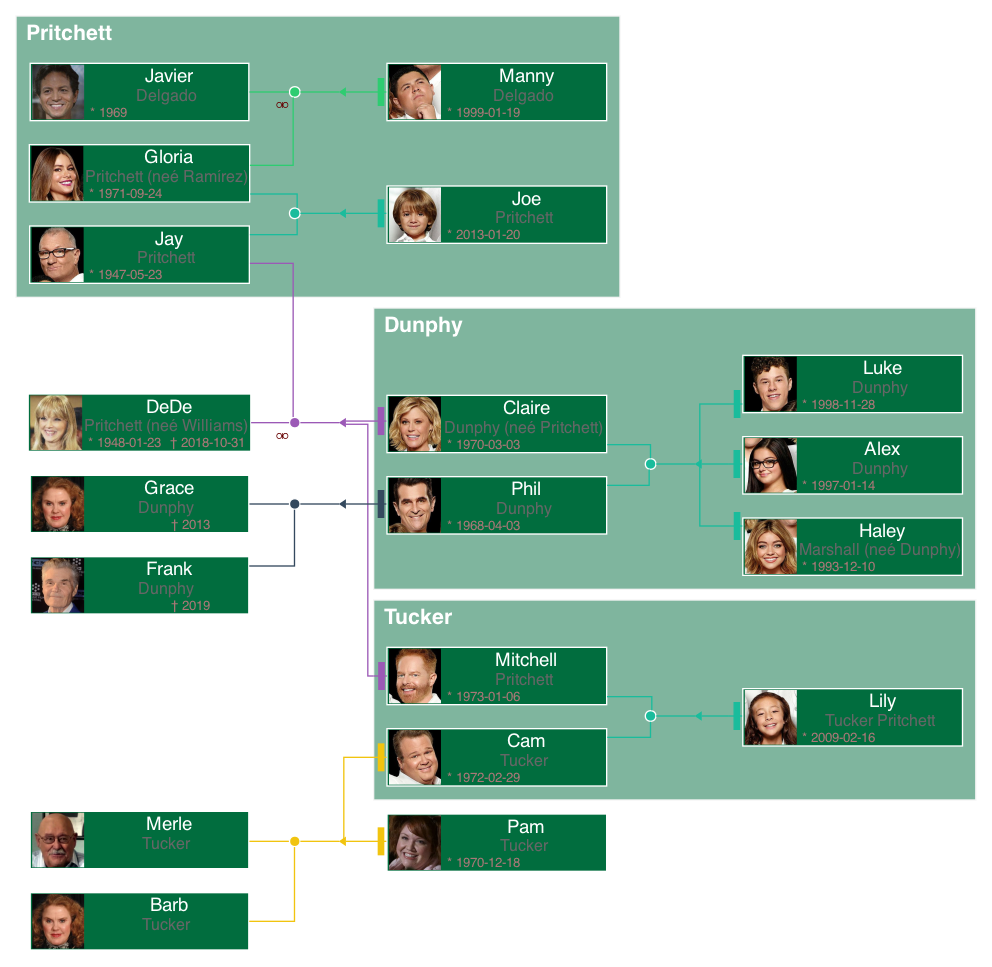
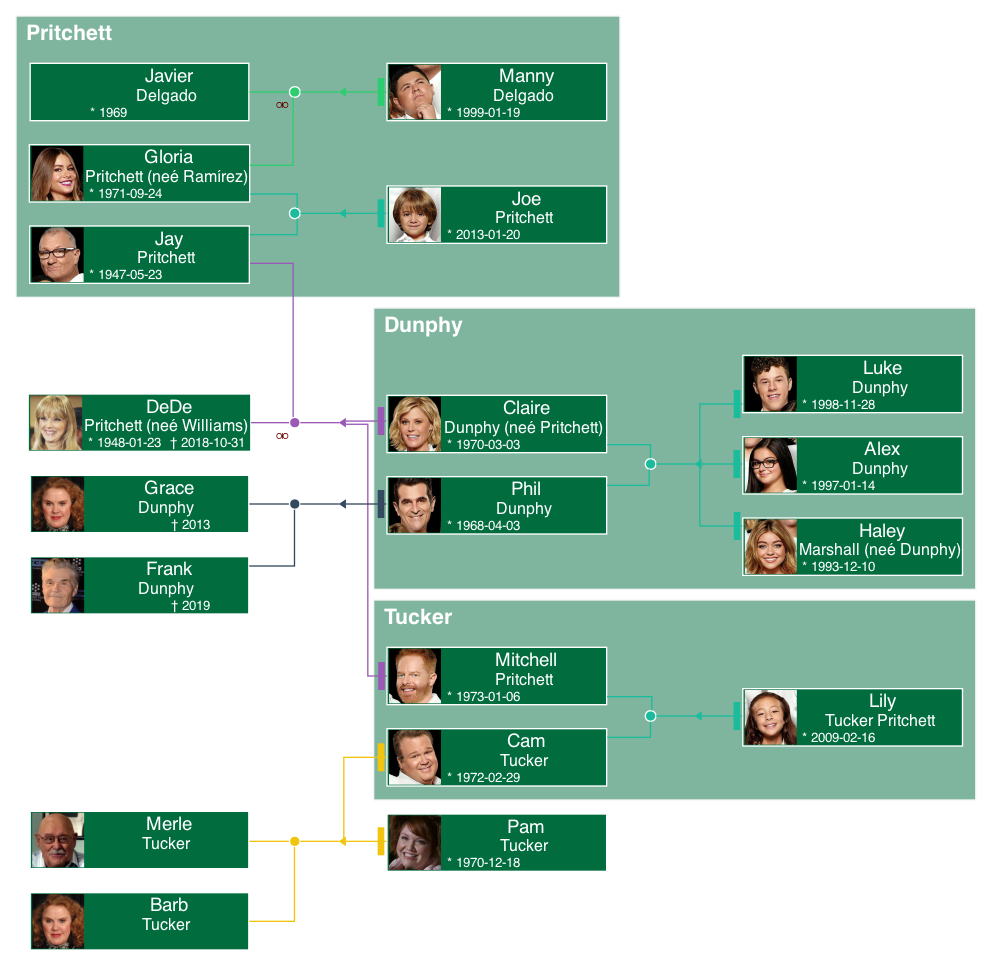
change render.py style code

diff --git a/nissaga/render.py b/nissaga/render.py
@@ -223,16 +223,16 @@ def renderPerson(root, person, path):
       (
           f'<td rowspan="3" width="{picsize[0]}" height="{picsize[1]}" fixedsize="true"><img src="pics/{pic}" scale="TRUE"></img></td>'
           if pic else
-          f'<td rowspan="3" width="{picsize[0]}" height="{picsize[1]}" fixedsize="true" bgcolor="#eeeeee"></td>'
+          f'<td rowspan="3" width="{picsize[0]}" height="{picsize[1]}" fixedsize="true"></td>'
       ),
       f'<td colspan="2">{firstname}</td>',
       "</tr>",
       "<tr>",
-      f'<td colspan="2"><font point-size="12" color="#666666">{surname}</font></td>',
+      f'<td colspan="2"><font point-size="12" color="#ffffff">{surname}</font></td>',
       '</tr>',
       '<tr>',
-      f'<td align="left" width="60"><font point-size="10" color="#aa7777"> {born} </font></td>',
-      f'<td align="left" width="60"><font point-size="10" color="#aa7777"> {died} </font></td>',
+      f'<td align="left" width="60"><font point-size="10" color="#ffffff"> {born} </font></td>',
+      f'<td align="left" width="60"><font point-size="10" color="#ffffff"> {died} </font></td>',
       '</tr>',
       '</table>',
     ])

diff --git a/README.md b/README.md
@@ -121,4 +121,5 @@ The following features have been introduced by nissaga, and are not available in
 
 ## develop cli
 uv run -m nissaga.cli draw examples/modernfamily/modernfamily.yaml svg
-style.py change style
+style.py change change style
+render.py change change style
